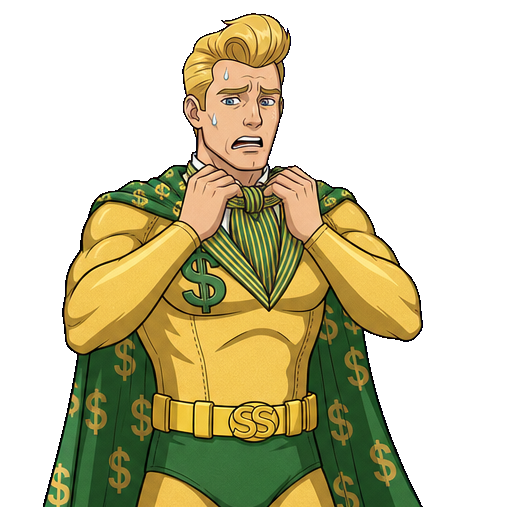
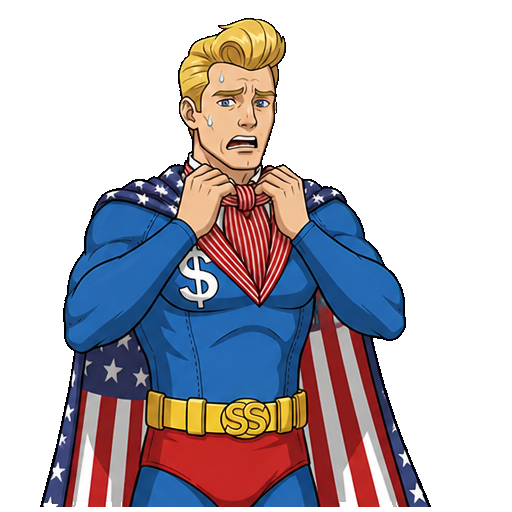
fix super sam color

diff --git a/tests/assets/SuperSamCostume.test.ts b/tests/assets/SuperSamCostume.test.ts
@@ -1,0 +1,46 @@
+// @Architecture(descriptionShort="Guards Super Sam navy-flag costume across poses", type="test", icon="layers")
+import { execFileSync } from 'node:child_process';
+import path from 'node:path';
+import { describe, expect, it } from 'vitest';
+
+/**
+ * Case 2 generated supersam_sweat from a yellow/green Chespirito sheet.
+ * Idle/point/slam/breakdown stay navy with flag cape and red trunks.
+ */
+function measureCostume(fileName: string): {
+  navy: number;
+  yellow: number;
+  red: number;
+  green: number;
+} {
+  const pngPath = path.resolve(__dirname, '../../assets', fileName);
+  const py = [
+    'from PIL import Image',
+    'import json, numpy as np, sys',
+    'a = np.array(Image.open(sys.argv[1]).convert("RGBA"))',
+    'mask = a[:,:,3] > 200',
+    'rgb = a[:,:,:3].astype(int)',
+    'R, G, B = rgb[:,:,0], rgb[:,:,1], rgb[:,:,2]',
+    'print(json.dumps({',
+    '  "navy": int(((B>R+40)&(B>G+20)&(B>80)&mask).sum()),',
+    '  "yellow": int(((R>180)&(G>140)&(B<80)&mask).sum()),',
+    '  "red": int(((R>160)&(G<90)&(B<90)&mask).sum()),',
+    '  "green": int(((G>R+20)&(G>B+20)&(G>80)&mask).sum()),',
+    '}))',
+  ].join('\n');
+  const pyBin = process.platform === 'win32' ? 'python' : 'python3';
+  return JSON.parse(execFileSync(pyBin, ['-c', py, pngPath], { encoding: 'utf8' }));
+}
+
+describe('Super Sam costume identity', () => {
+  it('keeps sweat on the navy flag suit, not the yellow-green Chespirito suit', () => {
+    const idle = measureCostume('supersam_idle.png');
+    const sweat = measureCostume('supersam_sweat.png');
+    expect(idle.navy).toBeGreaterThan(40000);
+    expect(idle.red).toBeGreaterThan(5000);
+    expect(sweat.navy).toBeGreaterThan(40000);
+    expect(sweat.red).toBeGreaterThan(3000);
+    expect(sweat.green).toBeLessThan(500);
+    expect(sweat.yellow).toBeLessThan(idle.navy / 5);
+  });
+});

diff --git a/tests/assets/SlamSpriteContact.test.ts b/tests/assets/SlamSpriteContact.test.ts
@@ -33,7 +33,8 @@ function measurePng(fileName: string): {
     'print(json.dumps({"notch": notch, "palms": int(rows[-1]),',
     '    "center80": int(fg[-80:, w//2].sum()), "red": red, "gold": gold}))'
   ].join('\n');
-  return JSON.parse(execFileSync('python3', ['-c', py, pngPath], { encoding: 'utf8' }));
+  const pyBin = process.platform === 'win32' ? 'python' : 'python3';
+  return JSON.parse(execFileSync(pyBin, ['-c', py, pngPath], { encoding: 'utf8' }));
 }
 
 describe('Super Sam slam sprite', () => {

diff --git a/tests/case/AssetIntegrity.test.ts b/tests/case/AssetIntegrity.test.ts
@@ -38,6 +38,7 @@ describe('Asset Integrity & Existence', () => {
       'supersam_slam.png',
       'supersam_point.png',
       'supersam_breakdown.png',
+      'supersam_sweat.png',
       'tripaseca_smug.png',
       'tripaseca_sweat.png',
       'tripaseca_panic.png',

diff --git a/docs/lessons-learned/README.md b/docs/lessons-learned/README.md
@@ -34,4 +34,5 @@ Avoid: "bug description + fix". Prefer: "what I learned that applies to future w
 | [`investigation-dialogue-completion-lifecycle.md`](file:///c:/Proyectos/ace-attorney-gemini/docs/lessons-learned/investigation-dialogue-completion-lifecycle.md) | Gating environment investigation dialogue completion and controls visibility to protect FIFO queue callbacks. | 2026-08-29 |
 | [`investigation-hotspot-cover-crop.md`](file:///c:/Proyectos/ace-attorney-gemini/docs/lessons-learned/investigation-hotspot-cover-crop.md) | Hotspot percentages track the 960×540 cover crop of a 3:2 background, not the raw JPEG. | 2026-08-29 |
 | [`splash-card-stage-height.md`](file:///c:/Proyectos/ace-attorney-gemini/docs/lessons-learned/splash-card-stage-height.md) | Title splash stack must fit 540px; flex centering clips both ends when the card is taller than the stage. | 2026-08-29 |
+| [`supersam-pose-identity-lock.md`](file:///c:/Proyectos/ace-attorney-gemini/docs/lessons-learned/supersam-pose-identity-lock.md) | Extra Super Sam poses default to Chespirito yellow/green unless idle is the identity lock. | 2026-08-29 |
 

diff --git a/docs/architecture/asset-pipeline.md b/docs/architecture/asset-pipeline.md
@@ -42,7 +42,7 @@ The pipeline performs:
 
 ### Case 2 ([[process_case2_assets.py]])
 Case 2 art lives in [[tools/raw/]] and is processed separately so [[process_assets.py]] stays frozen:
-- **2x2 pose sheets** (row-major): Chómpiras, Peterete, Jirafales, Jaimito, Clotilde. Peterete breakdown is the top-left cell of `peterete_breakdown_raw.png`. Super Sam sweat is the top-right cell of `supersam_sweat_raw.png` (does not overwrite idle/point/slam/breakdown).
+- **2x2 pose sheets** (row-major): Chómpiras, Peterete, Jirafales, Jaimito, Clotilde. Peterete breakdown is the top-left cell of `peterete_breakdown_raw.png`. Super Sam sweat is the top-right cell of `supersam_sweat_raw.png` (does not overwrite idle/point/slam/breakdown). That sheet must be generated with idle as the identity lock; otherwise the model paints Chespirito yellow/green instead of navy + flag cape.
 - **Evidence**: `case2_evidence_icons_raw.png` (4 columns × 3 rows) → `chanfle_oro.png` … `lata_grasa.png`.
 - **Backgrounds** copied as JPEG: `bg_boveda.jpg`, `bg_restaurante.jpg`, `bg_postal.jpg`, `bg_clotilde.jpg`.
 

diff --git a/docs/specs/artistic-direction.md b/docs/specs/artistic-direction.md
@@ -47,6 +47,7 @@ Characters are rendered in high-definition 2D Capcom sprite style with crisp dar
   * `supersam_idle`: Smug half-smile clutching the money bag over his shoulder.
   * `supersam_slam`: Double-palm desk slam with the cash sack slung over the shoulder. Same costume as idle/point (off-center `$`, gold SS belt, red trunks, flag cape). Contact silhouette matches other slam poses: A-frame arms and a transparent waist notch so the bench covers the waist instead of the torso painting onto the wood.
   * `supersam_point`: Arrogant finger-pointing objection shout ("Time is money!").
+  * `supersam_sweat`: Collar-tugging grimace with sweat beads. Same navy bodysuit, white `$`, gold SS belt, red trunks, flag cape, and red/white cravat as idle. A new pose sheet that is not locked to idle identity will default to Chespirito yellow/green Super Sam.
   * `supersam_breakdown`: Screaming recoil as dollar bills scatter into the air.
 
 ### C. El Tripaseca (Witness & Culprit)

diff --git a/docs/lessons-learned/supersam-pose-identity-lock.md b/docs/lessons-learned/supersam-pose-identity-lock.md
@@ -1,0 +1,7 @@
+# Extra Super Sam poses need an idle identity lock
+
+## Context
+Case 1 Super Sam is navy bodysuit, white `$`, gold SS belt, red trunks, US flag cape. Chespirito Super Sam is yellow/green with dollar-sign cape. Image models know the TV design better than this game's.
+
+## What was learned
+A new pose sheet (sweat, panic, etc.) generated without the idle sprite as the identity reference will snap to yellow/green even if the prompt names navy and flag colors. Lock idle in the generation pass, extract only the new cell, and keep pixel gates on navy/red vs yellow/green so a re-run of [[process_case2_assets.py]] cannot silently swap the prosecutor's suit.
